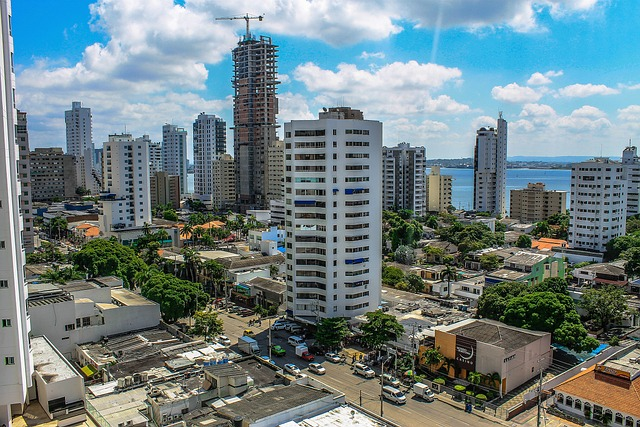
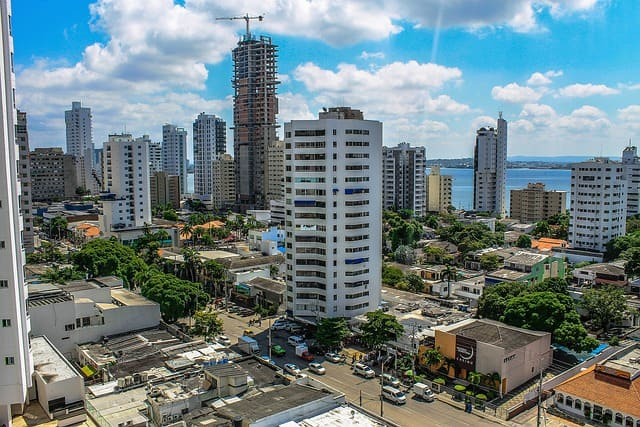
se comprimen img y se crean html faltantes

diff --git a/pages/medellin.html b/pages/medellin.html
@@ -1,0 +1,135 @@
+<!DOCTYPE html>
+<html lang="en">
+
+<head>
+    <meta charset="UTF-8">
+    <meta name="viewport" content="width=device-width, initial-scale=1.0">
+    <link rel="stylesheet" href="../css/style.css">
+    <link rel="shortcut icon" href="../img/favicon.png">
+    <link href="https://cdn.jsdelivr.net/npm/bootstrap@5.3.2/dist/css/bootstrap.min.css" rel="stylesheet"
+        integrity="sha384-T3c6CoIi6uLrA9TneNEoa7RxnatzjcDSCmG1MXxSR1GAsXEV/Dwwykc2MPK8M2HN" crossorigin="anonymous">
+    <title>Medellin</title>
+</head>
+
+<nav class="navbar navbar-expand-lg bg-body-tertiary nav-menu sticky-top">
+    <div class="container-fluid">
+
+        <button class="navbar-toggler" type="button" data-bs-toggle="collapse"
+            data-bs-target="#navbarSupportedContent" aria-controls="navbarSupportedContent" aria-expanded="false"
+            aria-label="Toggle navigation">
+            <span class="navbar-toggler-icon"></span>
+        </button>
+
+        <div class="collapse navbar-collapse justify-content-center" id="navbarSupportedContent">
+            <ul class="navbar-nav mb-2 mb-lg-0">
+                <li class="nav-item">
+                    <a class="nav-link active" aria-current="page" href="../index.html">Home</a>
+                </li>
+                <li class="nav-item">
+                    <a class="nav-link" href="bogota.html">Bogotá</a>
+                </li>
+                <li class="nav-item">
+                    <a class="nav-link" href="medellin.html">Medellin</a>
+                </li>
+                <li class="nav-item">
+                    <a class="nav-link" href="cartagena.html">Cartagena</a>
+                </li>
+                <li class="nav-item">
+                    <a class="nav-link" href="sanAndres.html">San Andres</a>
+                </li>
+            </ul>
+        </div>
+    </div>
+</nav>
+
+<body>
+    <section class="container-section">
+        <div class="container-img">
+            <img src="../img/laPiedraMed.jpg" alt="">
+        </div>
+        <div class="container-text">
+            <h1>Medellin</h1>
+            <p>
+                Nestled in the lush Aburrá Valley of the Andes, Medellín, known as the "City of Eternal Spring,"
+                offers a captivating blend of innovation, culture, and natural beauty. From the vibrant streets of
+                El Poblado to the iconic Plaza Botero adorned with larger-than-life sculptures, Medellín invites
+                exploration. Tranquil escapes like Parque Arví and the charming town of Guatapé showcase the city's
+                rich tapestry of experiences.</p>
+        </div>
+
+    </section>
+    <section class="text-intro">
+        <h1>Places</h1>
+
+        <p>Discover Medellín's vibrant spirit at Plaza Botero's iconic sculptures, escape to the tranquil beauty of
+            Parque Arví's lush mountains, and witness resilience in the colorful streets of Comuna 13. Experience the
+            essence of Medellín's cultural richness, art, and natural wonders.</p>
+    </section>
+    <section>
+        <div class="container-section">
+            <div class="container-text">
+                <h1>Plaza Botero</h1>
+                <p>
+                    Plaza Botero, located in the heart of Medellín, is adorned with 23 larger-than-life sculptures
+                    created by renowned Colombian artist Fernando Botero. These sculptures, depicting exaggeratedly
+                    proportioned figures, offer a unique artistic experience and serve as a symbol of the city's
+                    cultural richness.
+                </p>
+            </div>
+            <div class="container-img">
+                <!-- imagen https://esculturasdecolombia.blogspot.com/2014/02/parque-botero.html-->
+                <img src="../img/plaza-botero-bog.jpg" alt="plaza-botero-Med">
+            </div>
+        </div>
+
+    </section>
+    <section class="container-section">
+        <div class="container-img">
+            <img src="../img/parque-arvi.jpg" alt="parque-arvi">
+        </div>
+        <div class="container-text">
+            <h1>Parque Arví</h1>
+            <p>
+                Parque Arví is a sprawling natural reserve nestled in the mountains surrounding Medellín. Spanning over
+                39,000 acres, this lush park offers visitors a tranquil escape from the bustling city. Explore hiking
+                trails, enjoy scenic viewpoints, and discover the rich biodiversity of Colombia's flora and fauna.</p>
+        </div>
+
+    </section>
+    <section>
+        <div class="container-section">
+            <div class="container-text">
+                <h1>Comuna 13</h1>
+                <p>
+                    Once one of the most dangerous neighborhoods in Medellín, Comuna 13 has undergone a remarkable
+                    transformation. Today, it stands as a symbol of resilience and community empowerment. Visitors can
+                    explore vibrant street art, learn about the neighborhood's troubled past, and witness firsthand the
+                    positive changes brought about by urban development projects and community initiatives.
+                </p>
+            </div>
+            <div class="container-img">
+                <img src="../img/Comuna-13.jpg" alt="Comuna-13">
+            </div>
+        </div>
+
+    </section>
+
+    <footer>
+        <div class="about-me">
+            <h1>About me</h1>
+            <p>Welcome to Colombia Travel, your gateway to unforgettable adventures and authentic experiences in the
+                heart of South America.</p>
+            <h2>newsletter</h2>
+        </div>
+        <div class="newsletter">
+            <input type="email" class="email-input" placeholder="Enter your email">
+            <button class="submit-btn">Subscribe</button>
+        </div>
+    </footer>
+
+    <script src="https://cdn.jsdelivr.net/npm/bootstrap@5.3.2/dist/js/bootstrap.bundle.min.js"
+        integrity="sha384-C6RzsynM9kWDrMNeT87bh95OGNyZPhcTNXj1NW7RuBCsyN/o0jlpcV8Qyq46cDfL"
+        crossorigin="anonymous"></script>
+</body>
+
+</html>

diff --git a/pages/sanAndres.html b/pages/sanAndres.html
@@ -1,0 +1,68 @@
+<!DOCTYPE html>
+<html lang="en">
+<head>
+    <meta charset="UTF-8">
+    <meta name="viewport" content="width=device-width, initial-scale=1.0">
+    <link rel="stylesheet" href="../css/style.css">
+    <link rel="shortcut icon" href="../img/favicon.png">
+    <link href="https://cdn.jsdelivr.net/npm/bootstrap@5.3.2/dist/css/bootstrap.min.css" rel="stylesheet"
+    integrity="sha384-T3c6CoIi6uLrA9TneNEoa7RxnatzjcDSCmG1MXxSR1GAsXEV/Dwwykc2MPK8M2HN" crossorigin="anonymous">
+    <title>San Andres</title>
+</head>
+<body>
+        <!-- top menu  -->
+        <nav class="navbar navbar-expand-lg bg-body-tertiary nav-menu sticky-top">
+            <div class="container-fluid">
+    
+                <button class="navbar-toggler" type="button" data-bs-toggle="collapse"
+                    data-bs-target="#navbarSupportedContent" aria-controls="navbarSupportedContent" aria-expanded="false"
+                    aria-label="Toggle navigation">
+                    <span class="navbar-toggler-icon"></span>
+                </button>
+    
+                <div class="collapse navbar-collapse justify-content-center" id="navbarSupportedContent">
+                    <ul class="navbar-nav mb-2 mb-lg-0">
+                        <li class="nav-item">
+                            <a class="nav-link active" aria-current="page" href="../index.html">Home</a>
+                        </li>
+                        <li class="nav-item">
+                            <a class="nav-link" href="bogota.html">Bogotá</a>
+                        </li>
+                        <li class="nav-item">
+                            <a class="nav-link" href="medellin.html">Medellin</a>
+                        </li>
+                        <li class="nav-item">
+                            <a class="nav-link" href="cartagena.html">Cartagena</a>
+                        </li>
+                        <li class="nav-item">
+                            <a class="nav-link" href="sanAndres.html">San Andres</a>
+                        </li>
+                    </ul>
+                </div>
+            </div>
+        </nav>
+
+        <section>
+            <div>
+                <img src="../img/san-andres.jpg" alt="San-Andres">
+            </div>
+        </section>
+
+        <footer>
+            <div class="about-me">
+                <h1>About me</h1>
+                <p>Welcome to Colombia Travel, your gateway to unforgettable adventures and authentic experiences in the
+                    heart of South America.</p>
+                <h2>newsletter</h2>
+            </div>
+            <div class="newsletter">
+                <input type="email" class="email-input" placeholder="Enter your email">
+                <button class="submit-btn">Subscribe</button>
+            </div>
+        </footer>
+
+        <script src="https://cdn.jsdelivr.net/npm/bootstrap@5.3.2/dist/js/bootstrap.bundle.min.js"
+        integrity="sha384-C6RzsynM9kWDrMNeT87bh95OGNyZPhcTNXj1NW7RuBCsyN/o0jlpcV8Qyq46cDfL"
+        crossorigin="anonymous"></script>
+</body>
+</html>

diff --git a/pages/bogota.html b/pages/bogota.html
@@ -1,0 +1,68 @@
+<!DOCTYPE html>
+<html lang="en">
+<head>
+    <meta charset="UTF-8">
+    <meta name="viewport" content="width=device-width, initial-scale=1.0">
+    <link rel="stylesheet" href="../css/style.css">
+    <link rel="shortcut icon" href="../img/favicon.png">
+    <link href="https://cdn.jsdelivr.net/npm/bootstrap@5.3.2/dist/css/bootstrap.min.css" rel="stylesheet"
+    integrity="sha384-T3c6CoIi6uLrA9TneNEoa7RxnatzjcDSCmG1MXxSR1GAsXEV/Dwwykc2MPK8M2HN" crossorigin="anonymous">
+    <title>Bogotá</title>
+</head>
+<body>
+        <!-- top menu  -->
+        <nav class="navbar navbar-expand-lg bg-body-tertiary nav-menu sticky-top">
+            <div class="container-fluid">
+    
+                <button class="navbar-toggler" type="button" data-bs-toggle="collapse"
+                    data-bs-target="#navbarSupportedContent" aria-controls="navbarSupportedContent" aria-expanded="false"
+                    aria-label="Toggle navigation">
+                    <span class="navbar-toggler-icon"></span>
+                </button>
+    
+                <div class="collapse navbar-collapse justify-content-center" id="navbarSupportedContent">
+                    <ul class="navbar-nav mb-2 mb-lg-0">
+                        <li class="nav-item">
+                            <a class="nav-link active" aria-current="page" href="../index.html">Home</a>
+                        </li>
+                        <li class="nav-item">
+                            <a class="nav-link" href="bogota.html">Bogotá</a>
+                        </li>
+                        <li class="nav-item">
+                            <a class="nav-link" href="medellin.html">Medellin</a>
+                        </li>
+                        <li class="nav-item">
+                            <a class="nav-link" href="cartagena.html">Cartagena</a>
+                        </li>
+                        <li class="nav-item">
+                            <a class="nav-link" href="sanAndres.html">San Andres</a>
+                        </li>
+                    </ul>
+                </div>
+            </div>
+        </nav>
+
+        <section>
+            <div>
+                <img src="../img/cascadaCristales.jpg" alt="Bogota">
+            </div>
+        </section>
+
+        <footer>
+            <div class="about-me">
+                <h1>About me</h1>
+                <p>Welcome to Colombia Travel, your gateway to unforgettable adventures and authentic experiences in the
+                    heart of South America.</p>
+                <h2>newsletter</h2>
+            </div>
+            <div class="newsletter">
+                <input type="email" class="email-input" placeholder="Enter your email">
+                <button class="submit-btn">Subscribe</button>
+            </div>
+        </footer>
+
+        <script src="https://cdn.jsdelivr.net/npm/bootstrap@5.3.2/dist/js/bootstrap.bundle.min.js"
+        integrity="sha384-C6RzsynM9kWDrMNeT87bh95OGNyZPhcTNXj1NW7RuBCsyN/o0jlpcV8Qyq46cDfL"
+        crossorigin="anonymous"></script>
+</body>
+</html>

diff --git a/pages/cartagena.html b/pages/cartagena.html
@@ -1,0 +1,68 @@
+<!DOCTYPE html>
+<html lang="en">
+<head>
+    <meta charset="UTF-8">
+    <meta name="viewport" content="width=device-width, initial-scale=1.0">
+    <link rel="stylesheet" href="../css/style.css">
+    <link rel="shortcut icon" href="../img/favicon.png">
+    <link href="https://cdn.jsdelivr.net/npm/bootstrap@5.3.2/dist/css/bootstrap.min.css" rel="stylesheet"
+    integrity="sha384-T3c6CoIi6uLrA9TneNEoa7RxnatzjcDSCmG1MXxSR1GAsXEV/Dwwykc2MPK8M2HN" crossorigin="anonymous">
+    <title>Cartagena</title>
+</head>
+<body>
+        <!-- top menu  -->
+        <nav class="navbar navbar-expand-lg bg-body-tertiary nav-menu sticky-top">
+            <div class="container-fluid">
+    
+                <button class="navbar-toggler" type="button" data-bs-toggle="collapse"
+                    data-bs-target="#navbarSupportedContent" aria-controls="navbarSupportedContent" aria-expanded="false"
+                    aria-label="Toggle navigation">
+                    <span class="navbar-toggler-icon"></span>
+                </button>
+    
+                <div class="collapse navbar-collapse justify-content-center" id="navbarSupportedContent">
+                    <ul class="navbar-nav mb-2 mb-lg-0">
+                        <li class="nav-item">
+                            <a class="nav-link active" aria-current="page" href="../index.html">Home</a>
+                        </li>
+                        <li class="nav-item">
+                            <a class="nav-link" href="bogota.html">Bogotá</a>
+                        </li>
+                        <li class="nav-item">
+                            <a class="nav-link" href="medellin.html">Medellin</a>
+                        </li>
+                        <li class="nav-item">
+                            <a class="nav-link" href="cartagena.html">Cartagena</a>
+                        </li>
+                        <li class="nav-item">
+                            <a class="nav-link" href="sanAndres.html">San Andres</a>
+                        </li>
+                    </ul>
+                </div>
+            </div>
+        </nav>
+
+        <section>
+            <div>
+                <img src="../img/cartagena.jpg" alt="Cartagena">
+            </div>
+        </section>
+
+        <footer>
+            <div class="about-me">
+                <h1>About me</h1>
+                <p>Welcome to Colombia Travel, your gateway to unforgettable adventures and authentic experiences in the
+                    heart of South America.</p>
+                <h2>newsletter</h2>
+            </div>
+            <div class="newsletter">
+                <input type="email" class="email-input" placeholder="Enter your email">
+                <button class="submit-btn">Subscribe</button>
+            </div>
+        </footer>
+
+        <script src="https://cdn.jsdelivr.net/npm/bootstrap@5.3.2/dist/js/bootstrap.bundle.min.js"
+        integrity="sha384-C6RzsynM9kWDrMNeT87bh95OGNyZPhcTNXj1NW7RuBCsyN/o0jlpcV8Qyq46cDfL"
+        crossorigin="anonymous"></script>
+</body>
+</html>

diff --git a/index.html b/index.html
@@ -27,16 +27,16 @@
                         <a class="nav-link active" aria-current="page" href="index.html">Home</a>
                     </li>
                     <li class="nav-item">
-                        <a class="nav-link" href="#">Bogotá</a>
+                        <a class="nav-link" href="pages/bogota.html">Bogotá</a>
                     </li>
                     <li class="nav-item">
-                        <a class="nav-link" href="pages/Medellin.html">Medellin</a>
+                        <a class="nav-link" href="pages/medellin.html">Medellin</a>
                     </li>
                     <li class="nav-item">
-                        <a class="nav-link" href="#">Cartagena</a>
+                        <a class="nav-link" href="pages/cartagena.html">Cartagena</a>
                     </li>
                     <li class="nav-item">
-                        <a class="nav-link" href="#">San Andres</a>
+                        <a class="nav-link" href="pages/sanAndres.html">San Andres</a>
                     </li>
                 </ul>
             </div>
@@ -67,7 +67,7 @@
                         <h5 class="card-title">Cartagena</h5>
                         <p class="card-text">Where colonial elegance meets Caribbean charm amidst historic streets and
                             pristine beaches.</p>
-                        <a href="#" class="btn btn-primary">learn more</a>
+                        <a href="pages/cartagena.html" class="btn btn-primary">learn more</a>
                     </div>
                 </div>
             </div>
@@ -81,7 +81,7 @@
                         <h5 class="card-title">San Andres</h5>
                         <p class="card-text">A Caribbean paradise with turquoise waters, white sandy beaches, and a
                             laid-back island vibe. <br> </p>
-                        <a href="#" class="btn btn-primary">learn more</a>
+                        <a href="pages/sanAndres.html" class="btn btn-primary">learn more</a>
                     </div>
                 </div>
             </div>
@@ -94,7 +94,7 @@
                         <h5 class="card-title">Medellin</h5>
                         <p class="card-text">Nestled in the Andes, it offers modern innovation, cultural richness, and
                             scenic mountain landscapes..</p>
-                        <a href="pages/Medellin.html" class="btn btn-primary">learn more</a>
+                        <a href="pages/medellin.html" class="btn btn-primary">learn more</a>
                     </div>
                 </div>
             </div>
